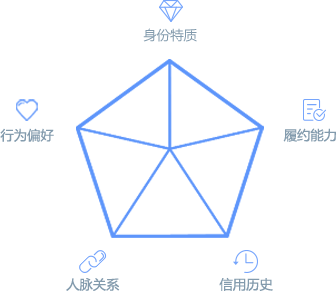
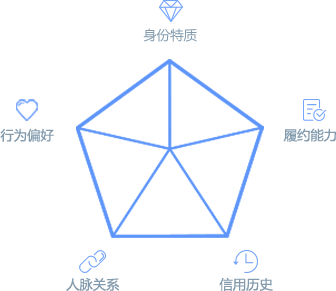
css

diff --git a/websites/css/index.css b/websites/css/index.css
@@ -451,13 +451,12 @@ li {
 .container .main .main-left {
   position: relative;
   float: left;
-  width: 336px;
-  height: 296px;
+  width: 568px;
+  height: 415px;
   display: inline-block;
   *display: inline;
   zoom: 1;
-  background: url(../images/index-pentagon.png) no-repeat;
-  background-size: cover;
+  background: url(../images/index-pentagon.png) no-repeat center center;
 }
 .container .main .main-right {
   position: relative;
@@ -465,6 +464,9 @@ li {
   display: inline-block;
   *display: inline;
   zoom: 1;
+  width: 532px;
+  height: 415px;
+  margin-top: 68px;
 }
 .container .main .main-right .num1 {
   width: 42px;
